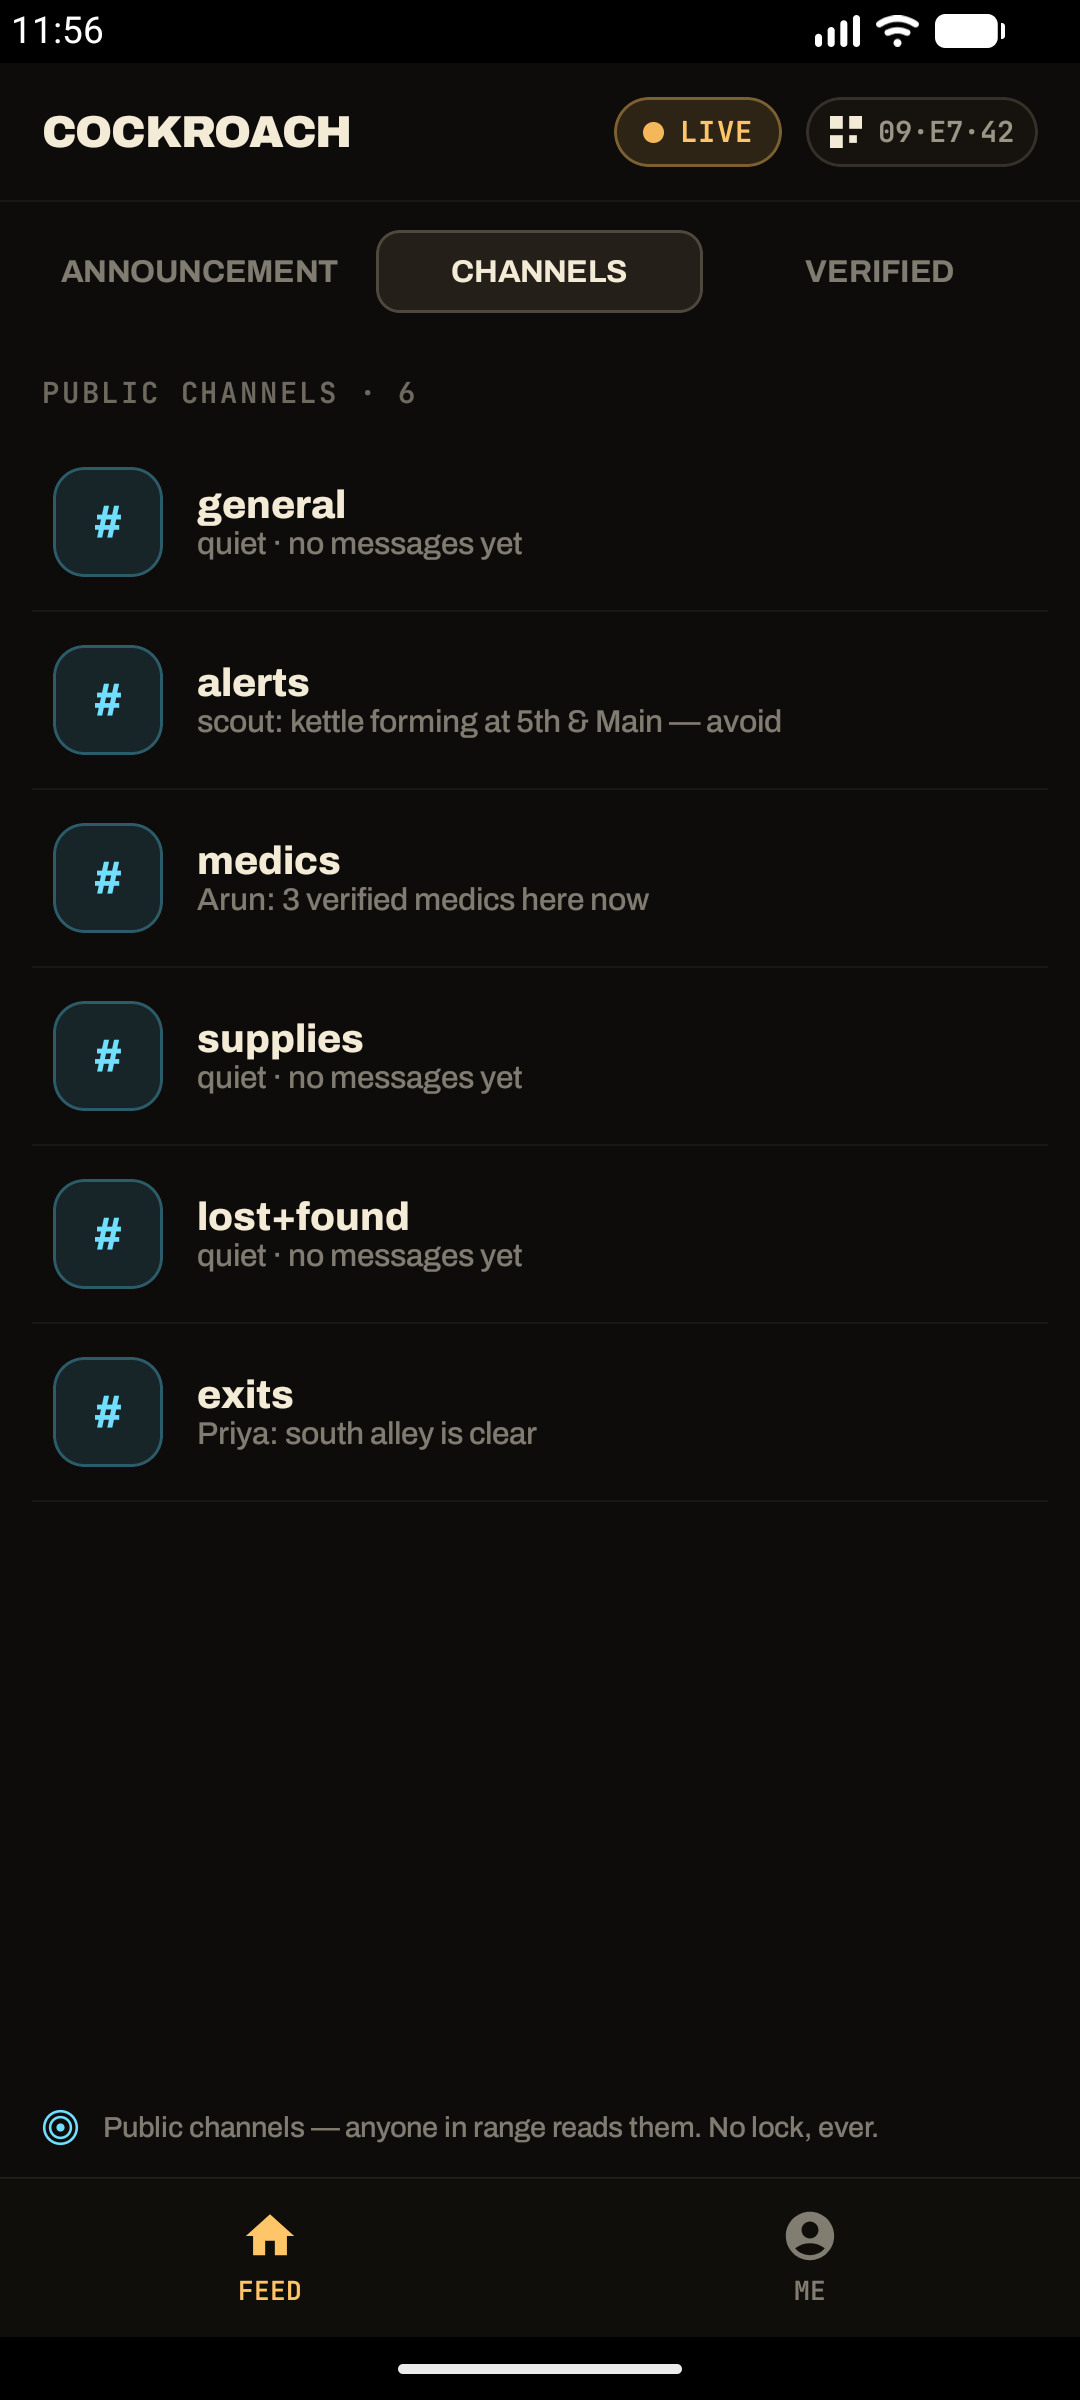
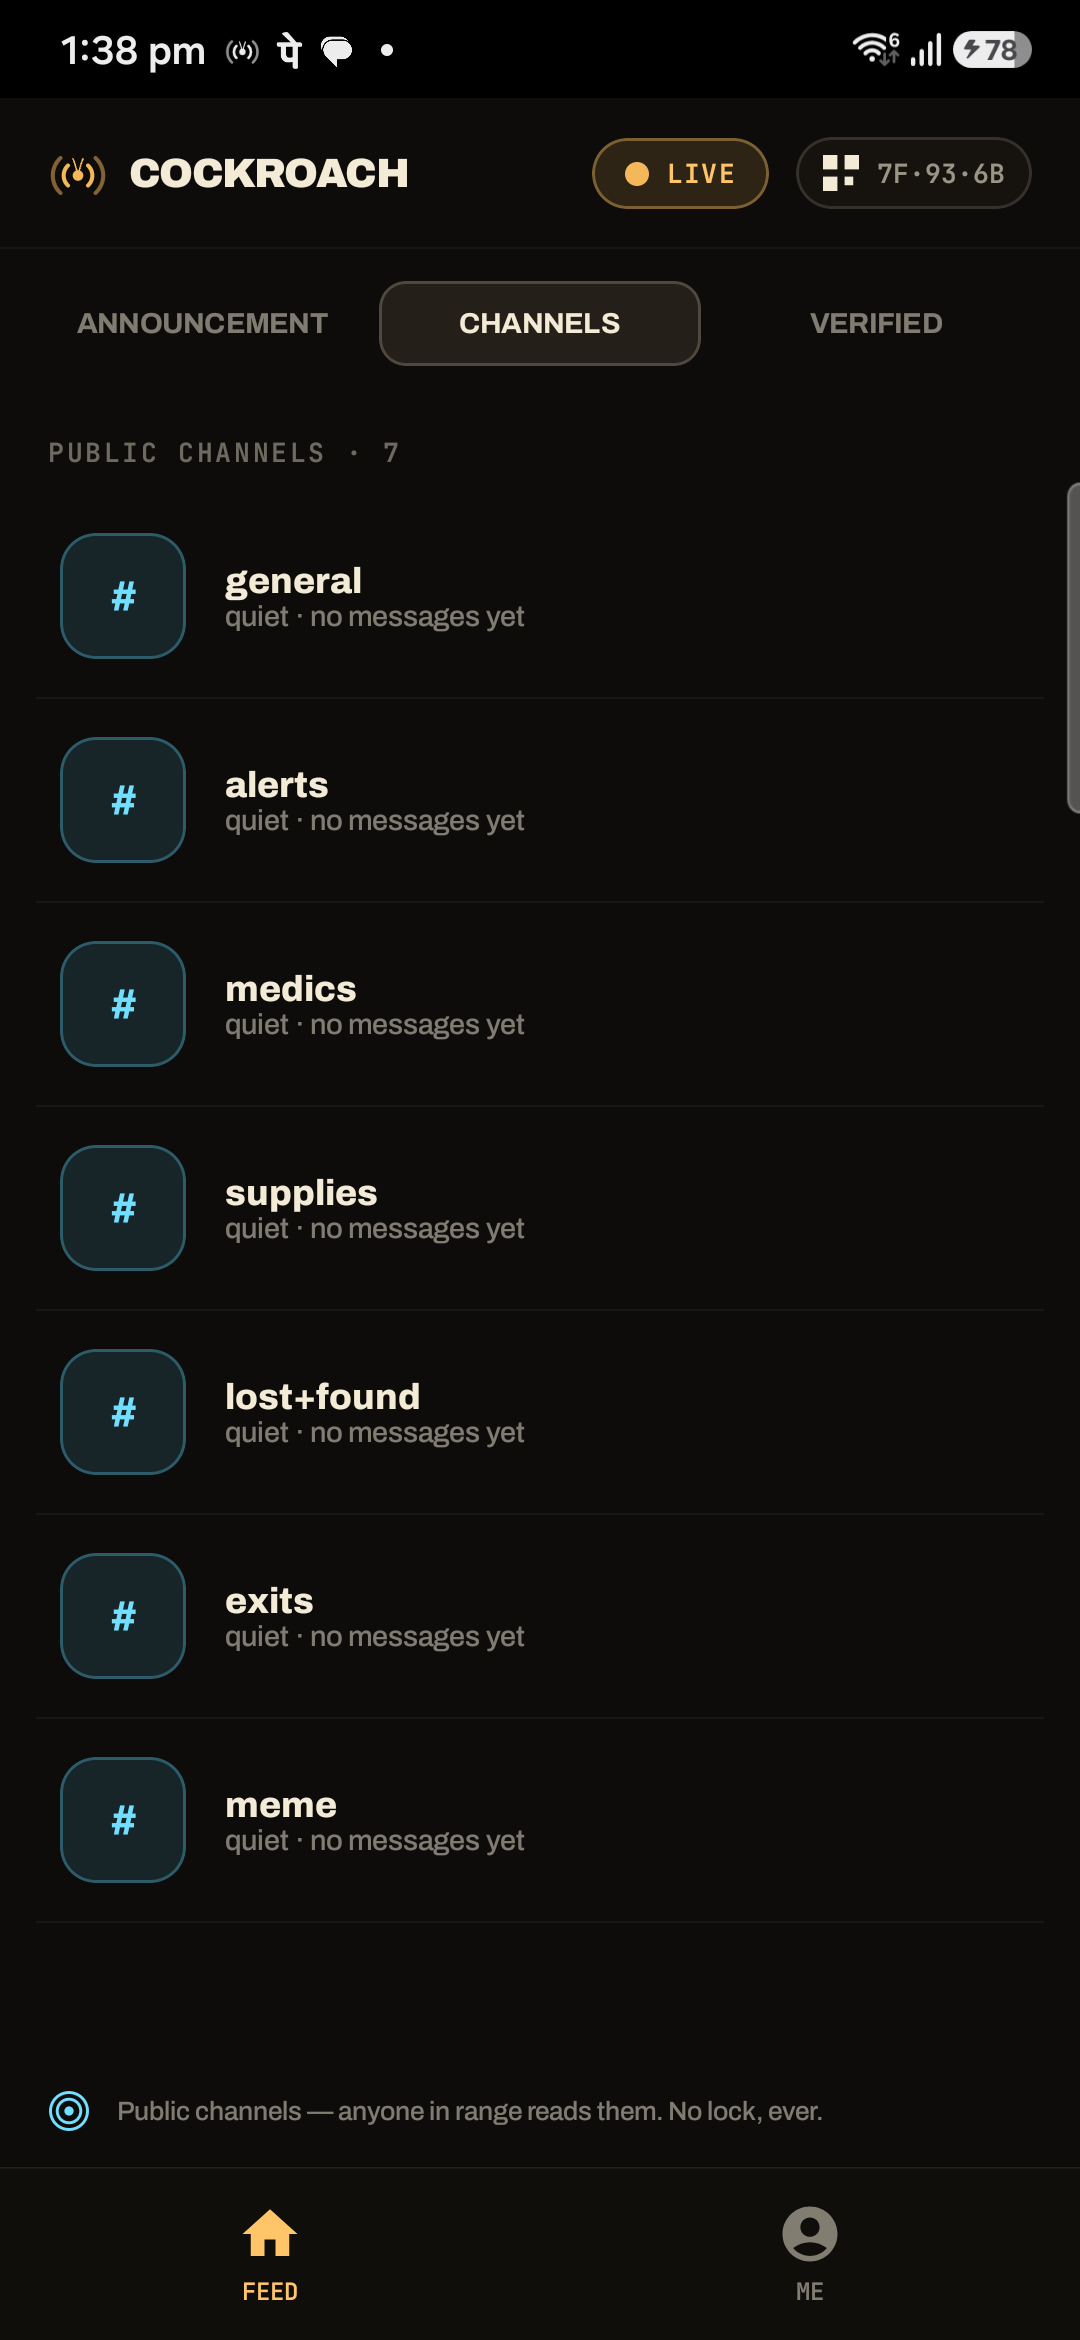
Meme channel, in-app version display, and release-driven versioning (#31)
* Add meme channel, in-app version display, release-driven versioning

- Meme channel: add "meme" to the static public channel list (BleController
  PUBLIC_CHANNELS) with English/Hindi display names. No core change — it
  joins, restores history, and syncs like the other public channels.
- Version on the Me screen: show the build versionName under Credits, read
  live from PackageManager (no BuildConfig needed). Not translated.
- Release-driven versioning: the git tag is now the single source of truth.
  app/build.gradle.kts derives versionName/versionCode from git at configure
  time — an exact vX.Y.Z tag -> "0.2.0" / MAJOR*10000+MINOR*100+PATCH; dev
  builds -> git describe ("0.2.0-4-g1a2b3c"); no git -> "0.0.0-dev+<sha>".
  Replaces the hardcoded versionCode=1 / versionName="0.1".
- CI: release.yml and ci.yml android job now checkout with fetch-depth: 0 so
  git describe has tags + history.
- docs/RELEASING.md documents the tag-to-release flow.

Verified: no-tag build -> 1 / 0.0.0-dev+<sha>; tag v0.3.1 -> 301 / 0.3.1.
Debug APK builds, unit tests pass (StringsTest catalog parity holds).

* docs: refresh me + channels screenshots

Recapture the two screens changed by recent work:
- channels.png: now shows the meme channel (7 public channels).
- me.png: now shows the "Share this app" action and the build version
  under Credits (v0.0.0-dev+<sha>).

announcement.png and dm.png are unchanged screens and kept as-is.
[…]

diff --git a/android/app/src/main/java/chat/cockroach/ui/App.kt b/android/app/src/main/java/chat/cockroach/ui/App.kt
@@ -687,6 +687,17 @@ private fun IdentityScreen(ble: BleController, onShowQr: () -> Unit, onScanQr: (
                     Spacer(Modifier.height(2.dp))
                     CcText(s.creditsFooterSub, 11, FontWeight.Medium, CcInkMute(0.4f))
                 }
+                // Build version — derived from the release git tag (see docs/RELEASING.md). Not
+                // translated; a version string is the same in every language.
+                val context = LocalContext.current
+                val version = remember {
+                    runCatching { context.packageManager.getPackageInfo(context.packageName, 0).versionName }
+                        .getOrNull().orEmpty()
+                }
+                if (version.isNotBlank()) {
+                    Spacer(Modifier.height(10.dp))
+                    CcText("v$version", 10, FontWeight.Medium, CcInkMute(0.35f), mono = true, align = androidx.compose.ui.text.style.TextAlign.Center, modifier = Modifier.fillMaxWidth())
+                }
                 Spacer(Modifier.height(6.dp))
             }
         }

diff --git a/android/app/src/main/java/chat/cockroach/ui/Strings.kt b/android/app/src/main/java/chat/cockroach/ui/Strings.kt
@@ -262,6 +262,7 @@ val EnStrings = Strings(
     channelNames = mapOf(
         "general" to "general", "alerts" to "alerts", "medics" to "medics",
         "supplies" to "supplies", "lost+found" to "lost+found", "exits" to "exits",
+        "meme" to "meme",
     ),
 )
 
@@ -380,6 +381,7 @@ val HiStrings = Strings(
     channelNames = mapOf(
         "general" to "सामान्य", "alerts" to "चेतावनी", "medics" to "चिकित्सा",
         "supplies" to "आपूर्ति", "lost+found" to "खोया-पाया", "exits" to "निकास",
+        "meme" to "मीम",
     ),
 )
 

diff --git a/android/app/src/main/java/chat/cockroach/BleController.kt b/android/app/src/main/java/chat/cockroach/BleController.kt
@@ -363,7 +363,7 @@ class BleController private constructor(context: Context) {
 
         /** Static public channels for V1 (in-app channel creation is deferred). Scenario-tuned. */
         val PUBLIC_CHANNELS = listOf(
-            "general", "alerts", "medics", "supplies", "lost+found", "exits",
+            "general", "alerts", "medics", "supplies", "lost+found", "exits", "meme",
         )
 
         // Compact, evocative wordlist for safety numbers (visual in-person key comparison).

diff --git a/docs/RELEASING.md b/docs/RELEASING.md
@@ -1,0 +1,40 @@
+# Releasing
+
+The **git tag is the single source of truth for the app version.** There is no version number
+to bump in a file — you tag a commit `vX.Y.Z`, and the build derives everything from it.
+
+## Cut a release
+
+```bash
+git tag -a v0.2.0 -m "v0.2.0"
+git push origin v0.2.0
+```
+
+Pushing a `v*` tag triggers [`.github/workflows/release.yml`](../.github/workflows/release.yml),
+which cross-compiles the core, builds a signed release APK, and publishes it. Use
+[semantic versioning](https://semver.org/): `MAJOR.MINOR.PATCH`.
+
+## How the version reaches the build
+
+[`android/app/build.gradle.kts`](../android/app/build.gradle.kts) derives both fields from git at
+configure time:
+
+- **`versionName`**
+  - On an exact release tag: the tag without the `v` — `v0.2.0` → `0.2.0`.
+  - Between tags (dev build): `git describe` — e.g. `0.2.0-4-g1a2b3c` (nearest tag, commits since,
+    short SHA), with `-dirty` appended when the tree has uncommitted changes.
+  - No tags / no git (e.g. a source tarball): `0.0.0-dev+<sha>`, or `0.0.0-dev`.
+- **`versionCode`** — `MAJOR*10000 + MINOR*100 + PATCH` from the nearest tag (`v0.2.0` → `200`),
+  so it increases monotonically across releases. Defaults to `1` when untagged. Missing or
+  malformed components read as `0`.
+
+This is why CI checks out with `fetch-depth: 0` — `git describe` needs the tags and full history.
+
+The version is shown in-app on the **Me** screen, under Credits.
+
+## Notes
+
+- **Never move or delete a published tag.** `versionCode` must never decrease, and users verify
+  release APKs against the tag. Ship a new patch tag instead.
+- A local `./gradlew assembleDebug` with no tags in the clone builds fine — it just reports a
+  `0.0.0-dev+<sha>` version.
